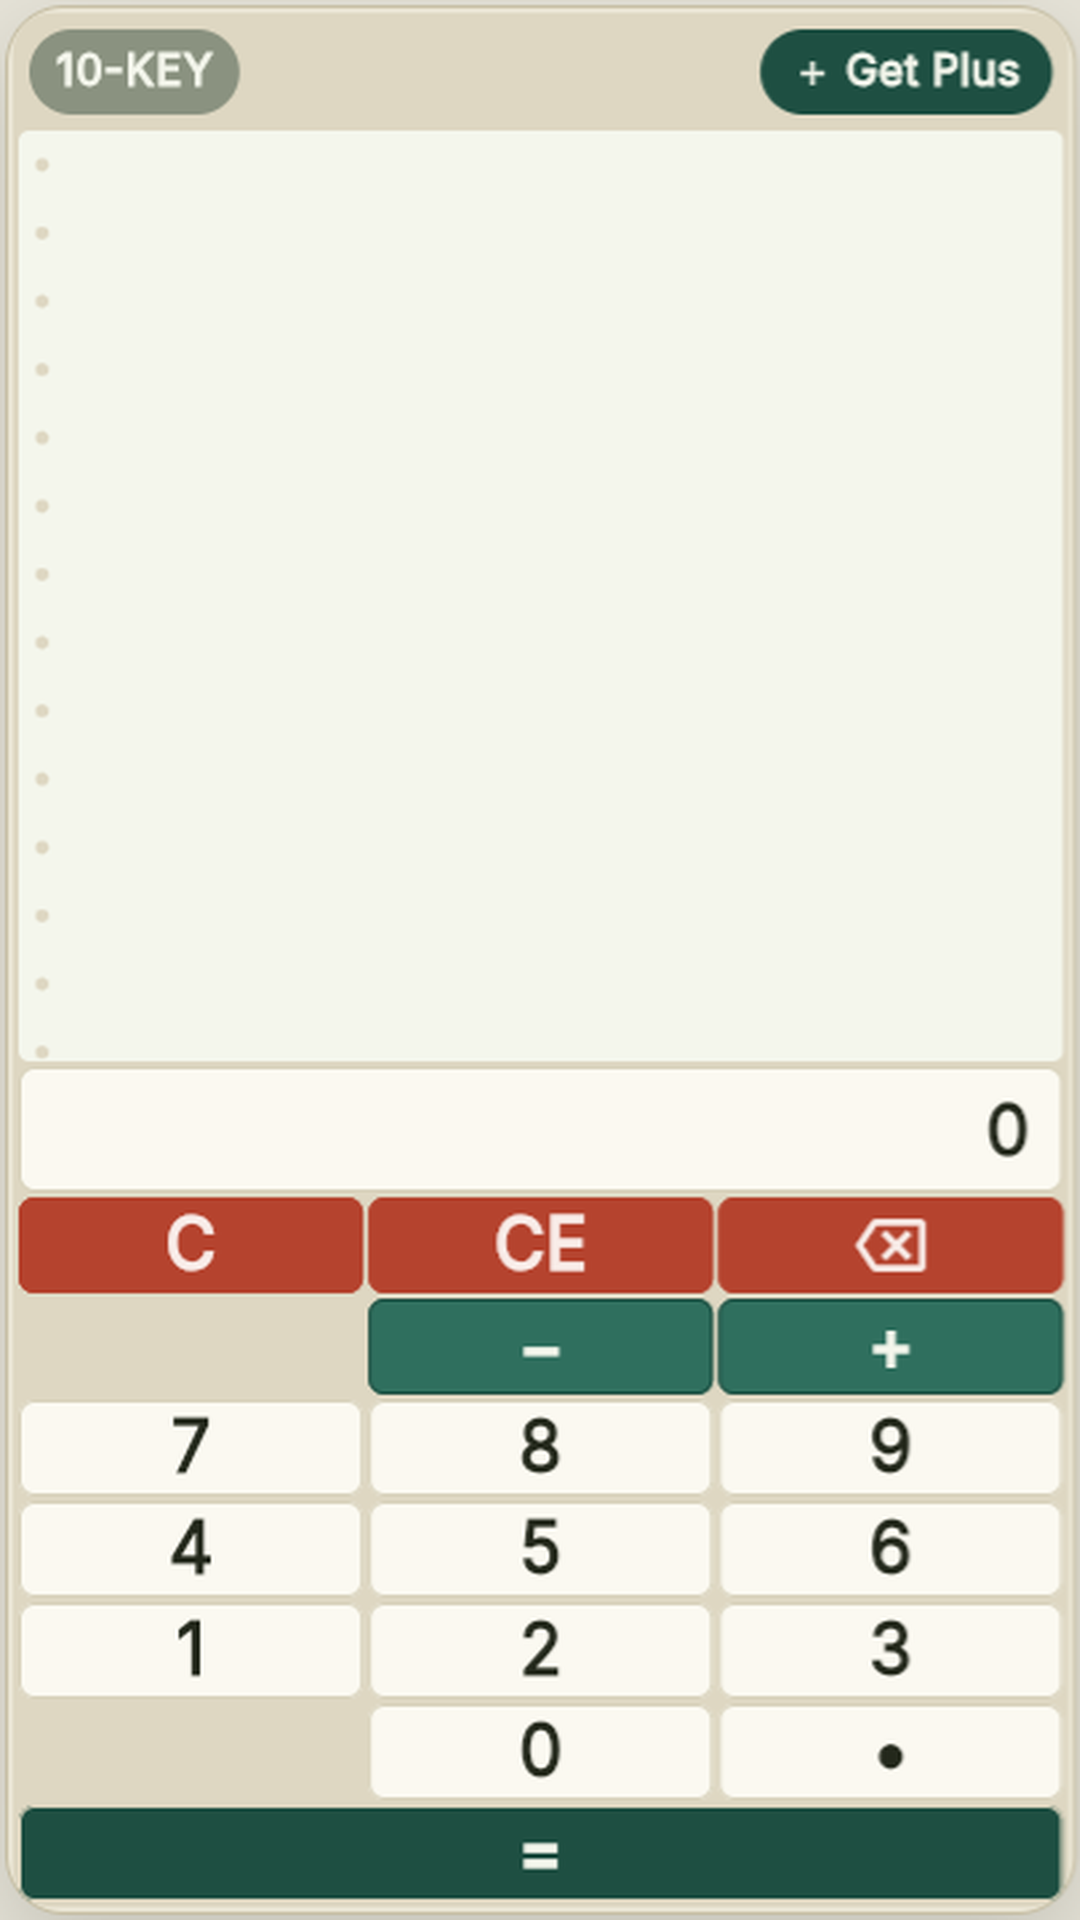
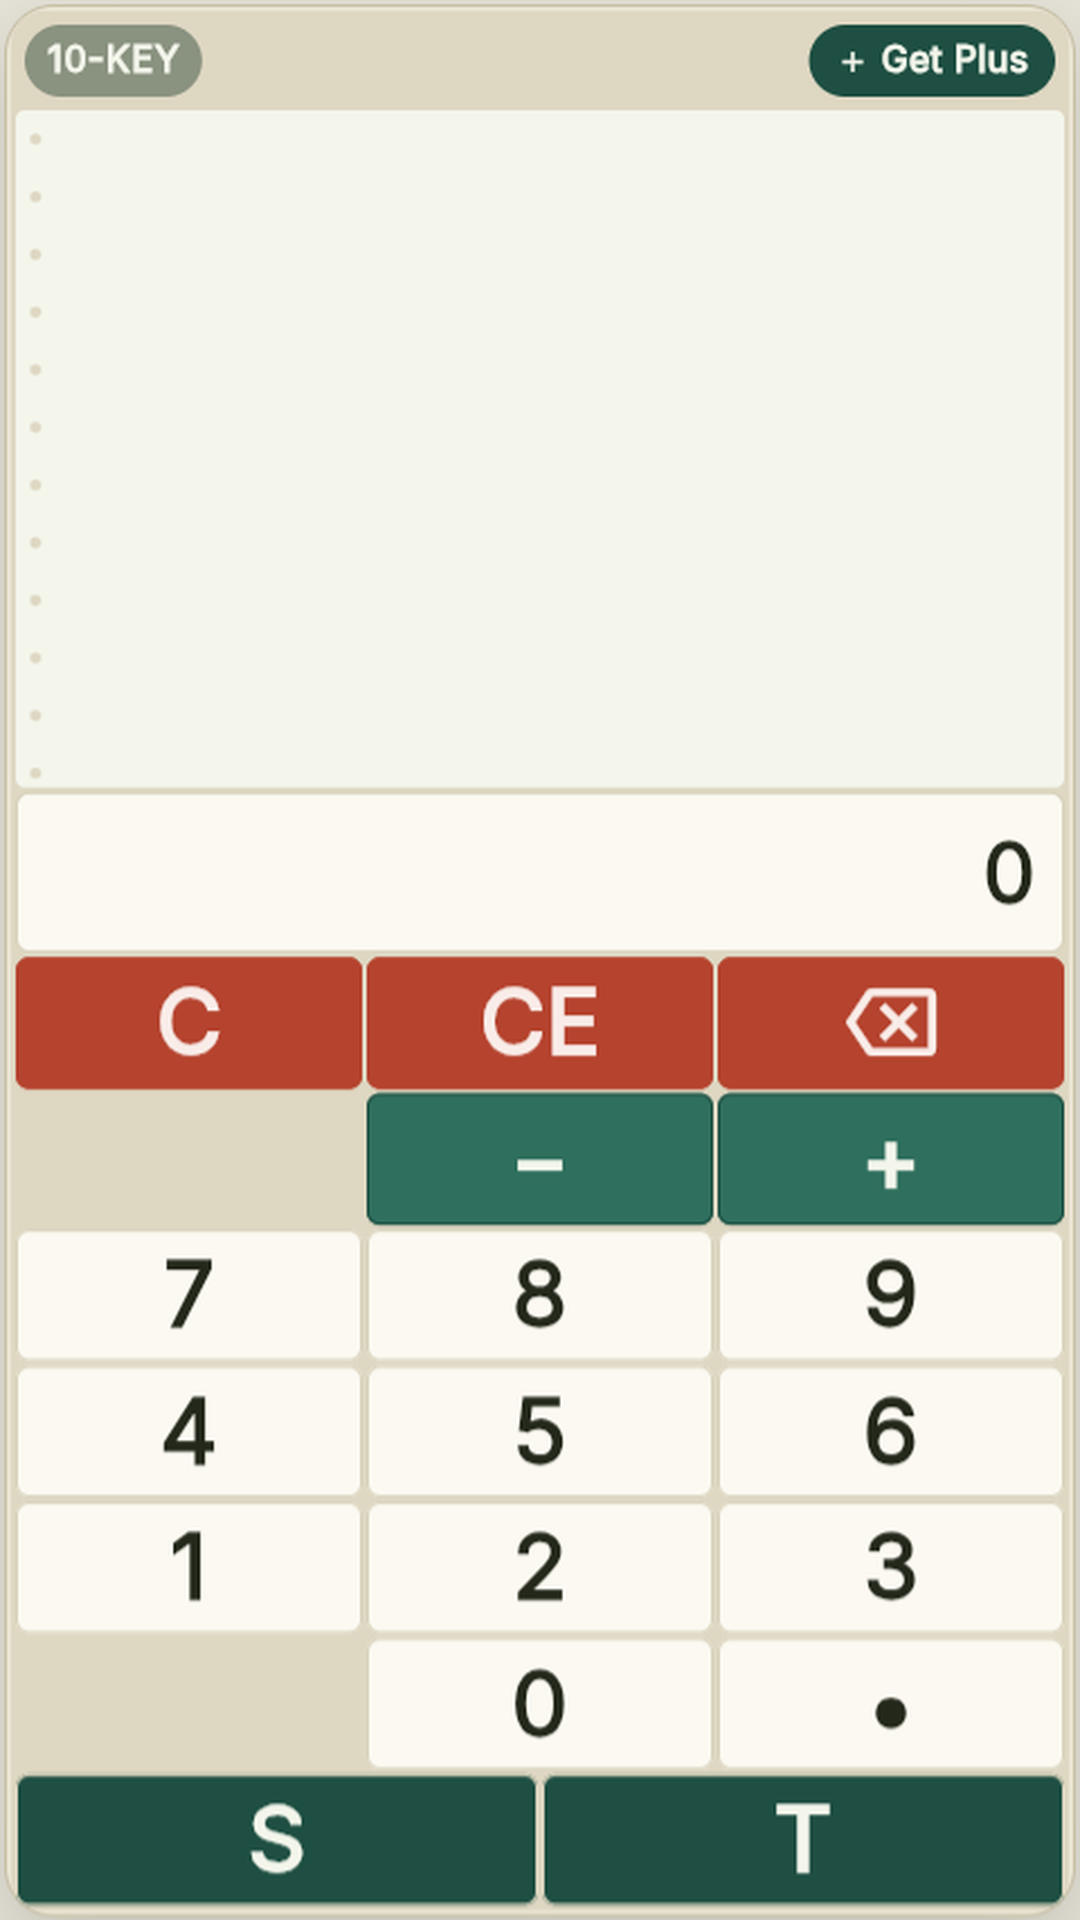
Refresh 10-Key marketing page for the #78-#82 batch
Screenshots were badly stale: the old 4-column keypad, a "PLUS TIER
PREVIEW" badge removed from the app back in #5, and even the Free
tier's screenshot predated #78's Subtotal/Total footer split.
Regenerated all three from the current app (Cassandras10Key repo's
store-screenshots skill).

Also expanded the Plus feature list to cover what's shipped since this
page was last touched: Subtotal (now both tiers), CSV export, the
ergonomic dominant-hand keypad with its left-handed mirror, and the
Simple+ reduced layout.

Claude-Session: https://claude.ai/code/session_01JaJAaL1DXDrtpTQfTnWNP4

diff --git a/apps/10-key.html b/apps/10-key.html
@@ -426,9 +426,12 @@
       </p>
       <p>
         10-Key+ (the optional paid tier) adds multiply and divide, tax
-        calculations, saved and named tapes you can switch between, and an
-        optional Cloud Backup feature that backs your saved tapes up to your own
-        Google Drive account.
+        calculations, saved and named tapes you can switch between with CSV
+        export, and an optional Cloud Backup feature that backs your saved
+        tapes up to your own Google Drive account. Its keypad groups the keys
+        you use most onto your dominant hand, adding-machine style, with a
+        left-handed layout available in Settings for anyone who'd rather have
+        them on the other side.
       </p>
     </section>
 
@@ -439,6 +442,7 @@
           <h3>10-Key (Free)</h3>
           <ul>
             <li><strong>+</strong> and <strong>&minus;</strong> keep a running total</li>
+            <li><strong>Subtotal</strong> and <strong>Total</strong> keys to check or finish your tally</li>
             <li>A scrolling ledger tape of every entry</li>
             <li>No ads, no account, no unnecessary permissions</li>
           </ul>
@@ -449,8 +453,10 @@
             <li><strong>&times;</strong> and <strong>&divide;</strong> for quick math on the fly</li>
             <li><strong>TAX+ / TAX&minus;</strong>, <strong>FEED</strong>, and reference numbers</li>
             <li>Label any entry, edit or delete any line</li>
-            <li>Save named tapes and switch between them</li>
+            <li>Save named tapes, switch between them, and export to CSV</li>
             <li>Optional <strong>Cloud Backup</strong> to your own Google Drive</li>
+            <li>An ergonomic keypad built for one-handed use, with a left-handed layout option</li>
+            <li>Prefer it simple? Switch to a reduced keypad anytime</li>
           </ul>
         </div>
       </div>
